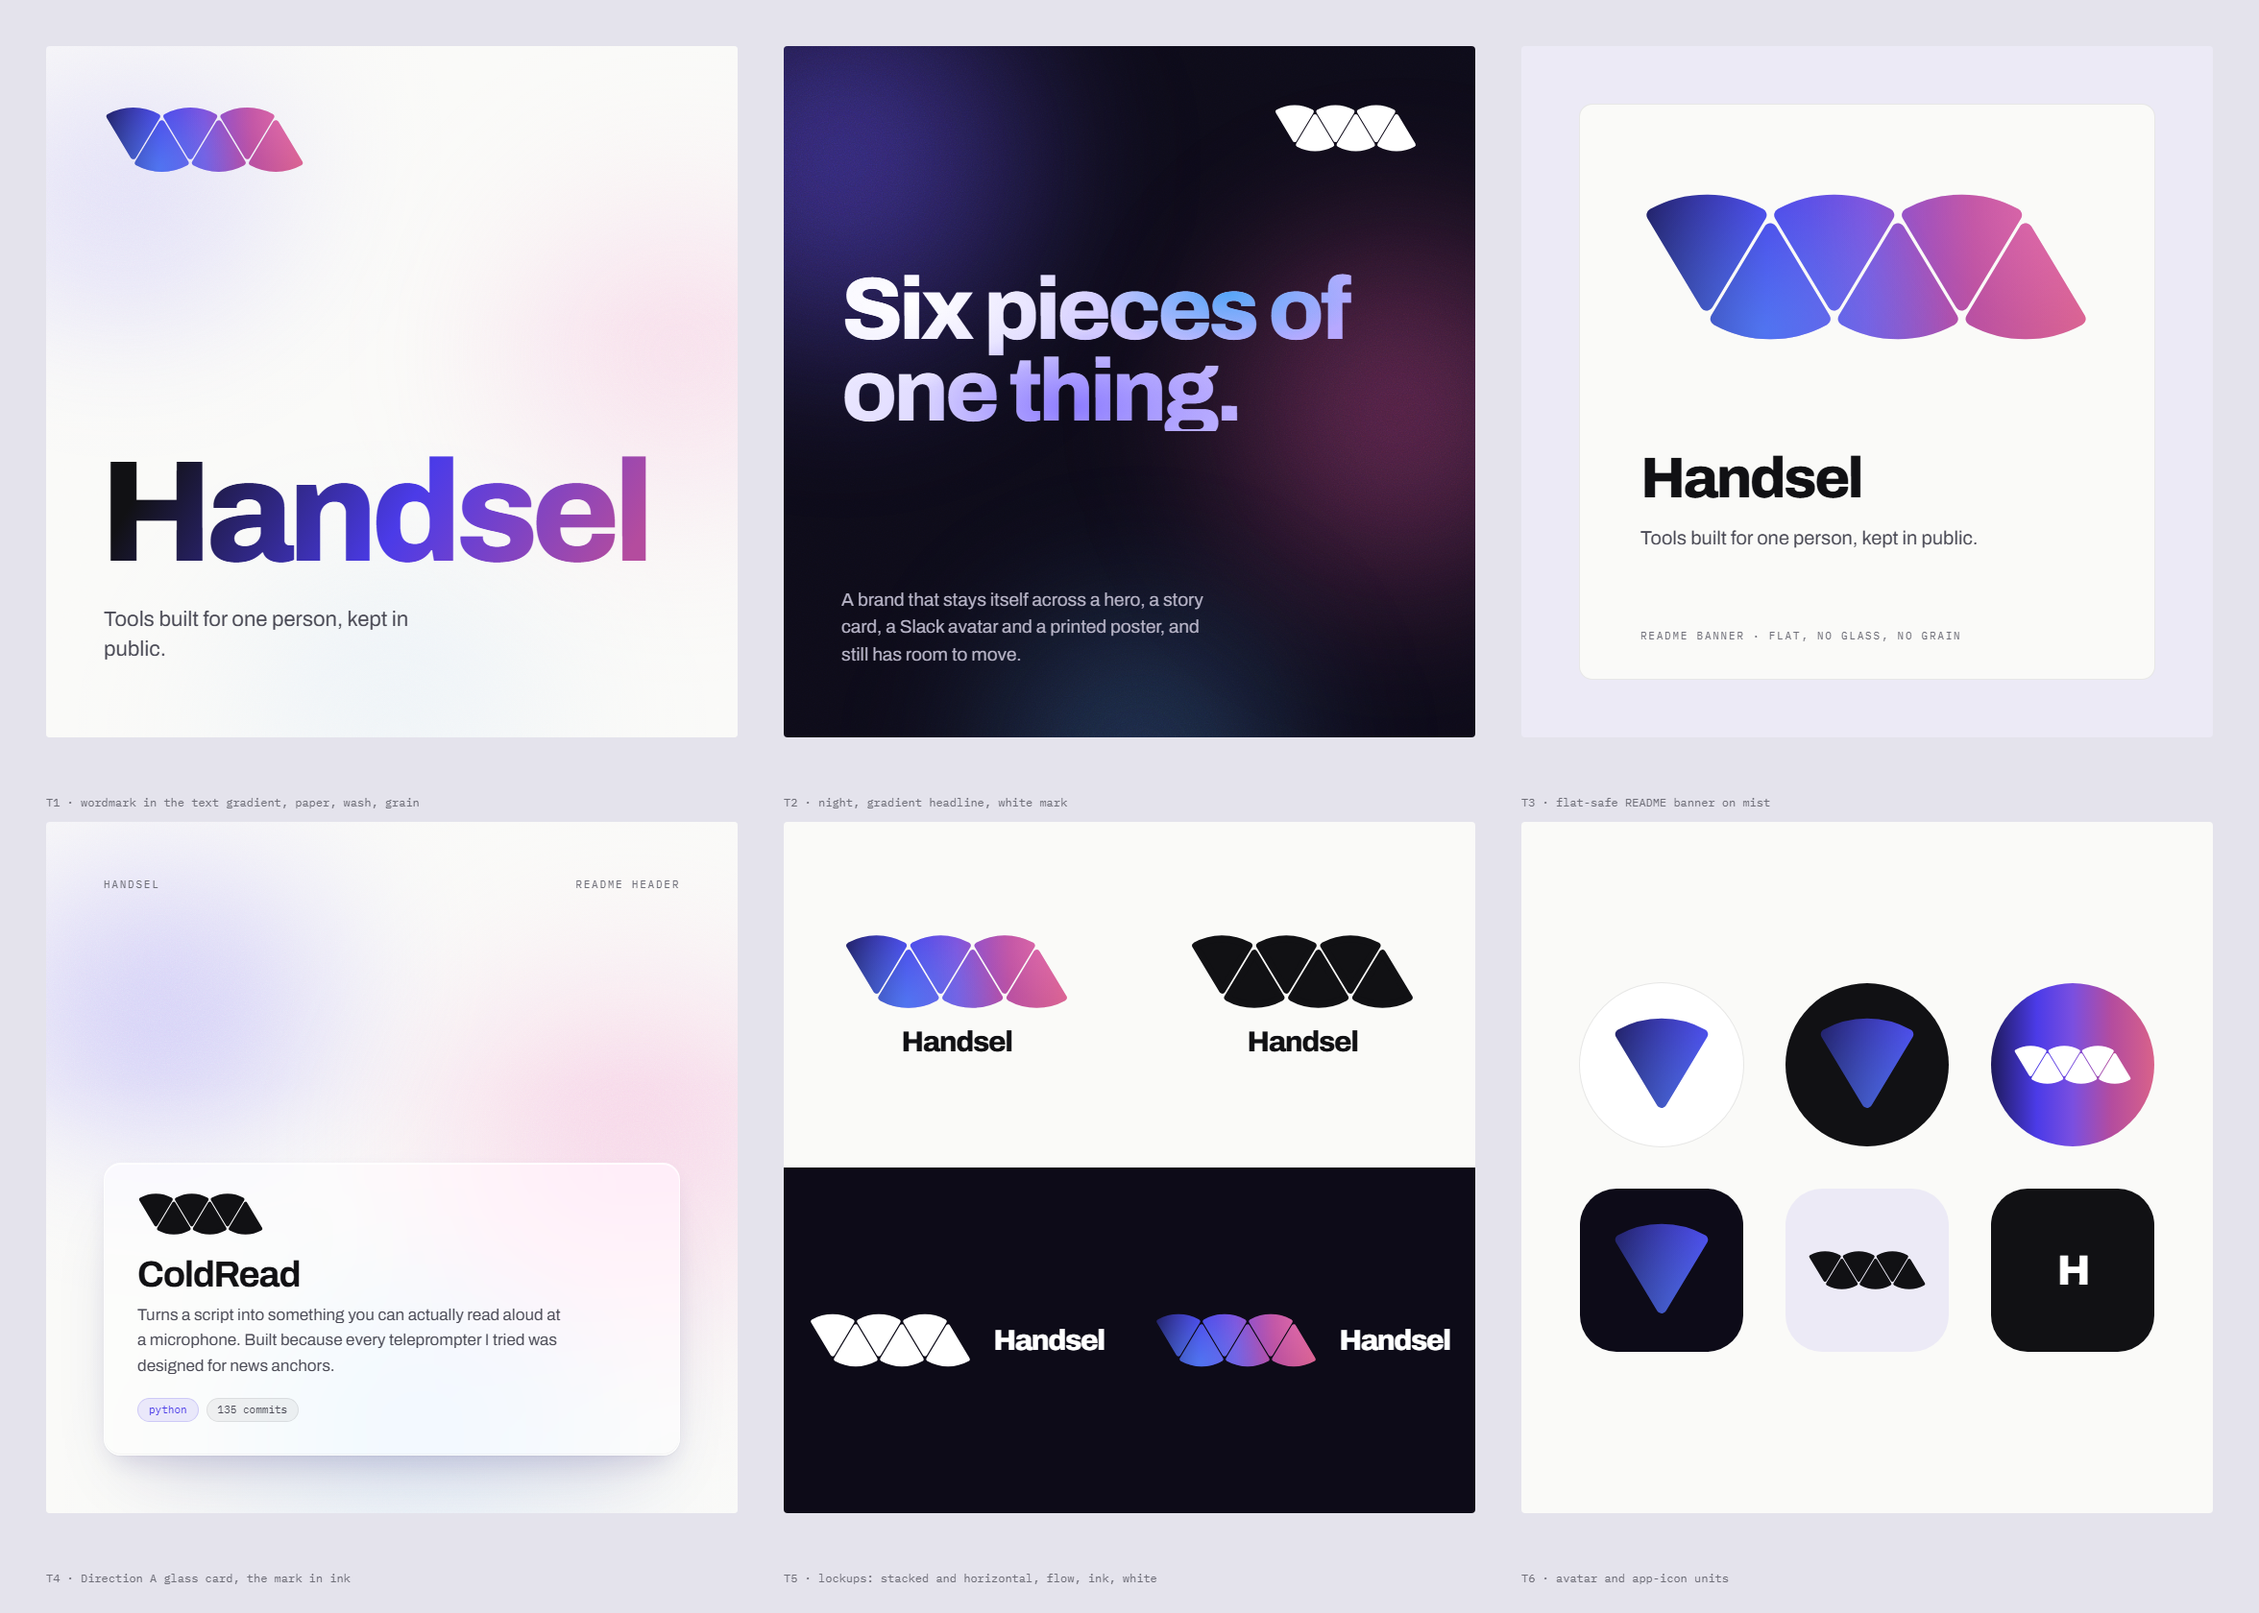
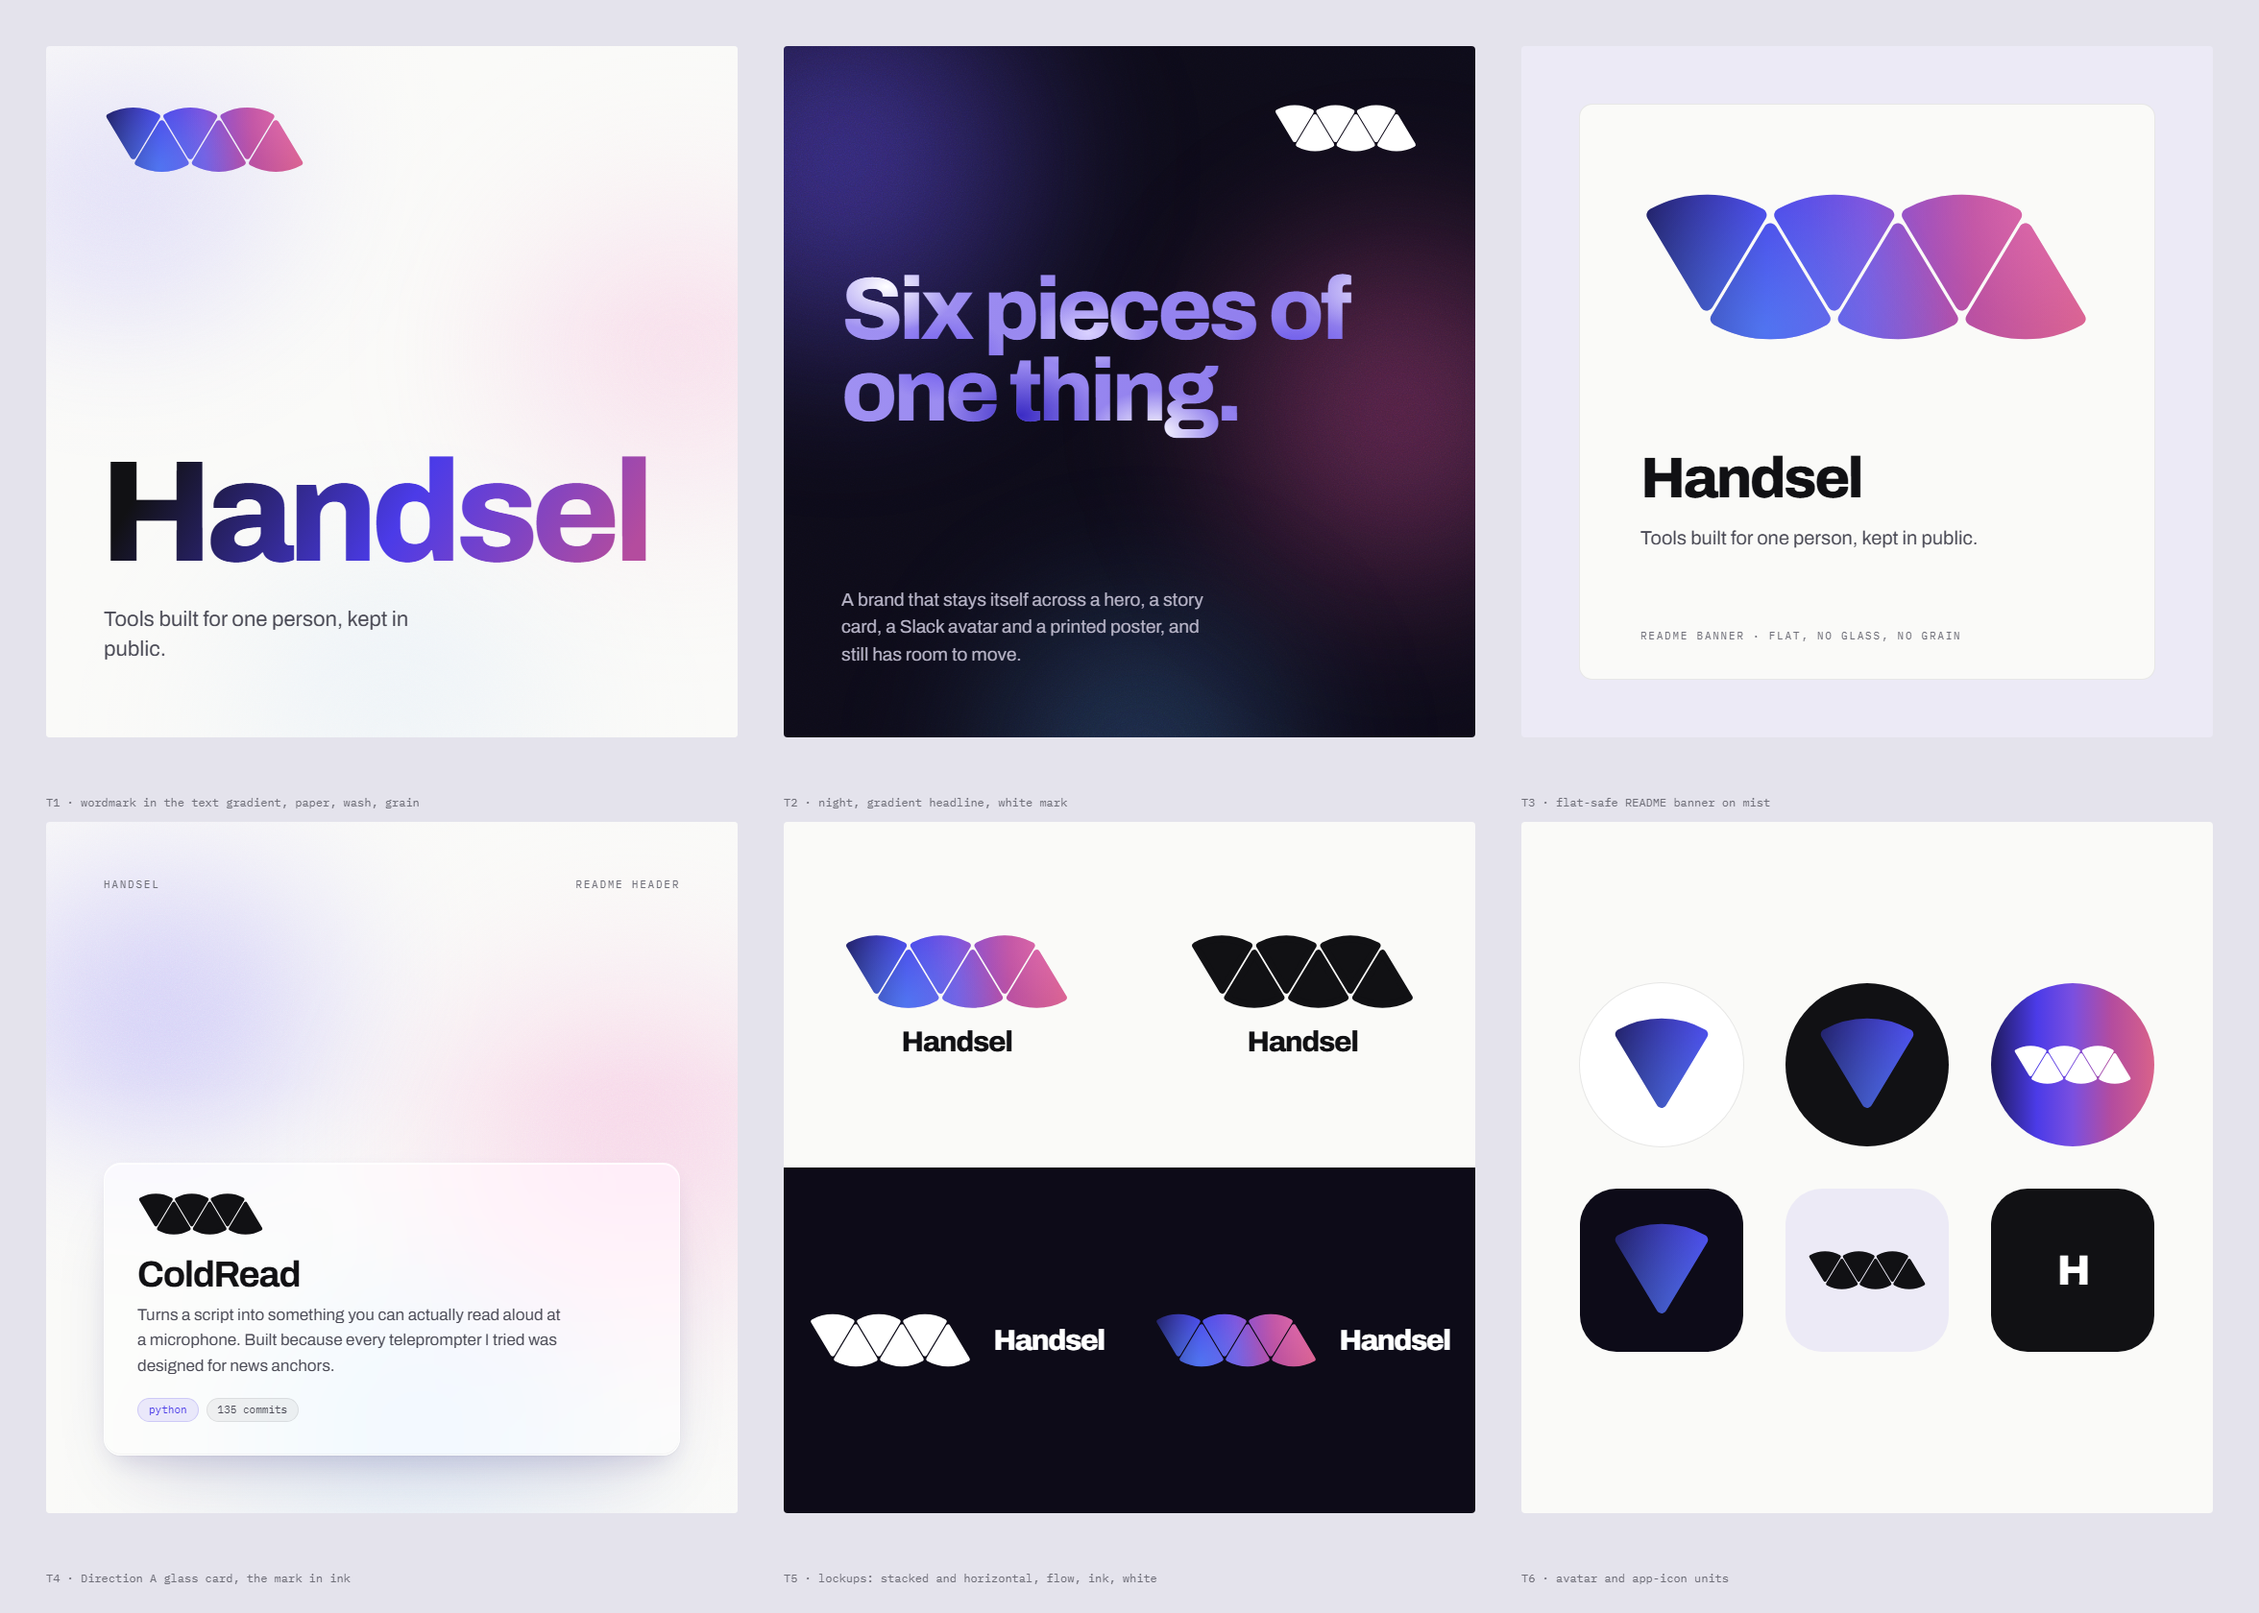
brand: T2 mesh headline, harder pools, descender kept inside the paint box

Changed region(s): [[0.3724, 0.1548, 0.5897, 0.2786]]

diff --git a/brand/fonts.css b/brand/fonts.css
@@ -19,11 +19,14 @@
   /* Mesh for display type on night: stacked radial pools over a white base, ending at
      lilac. No pink. Reads as one lit surface, not a ramp. */
   --mesh-night:
-    radial-gradient(60% 90% at 12% 20%, #FFFFFF 0%, rgba(255,255,255,0) 60%),
-    radial-gradient(45% 70% at 42% 85%, #8C7BFF 0%, rgba(140,123,255,0) 65%),
-    radial-gradient(40% 60% at 70% 15%, #56A4F8 0%, rgba(86,164,248,0) 60%),
-    radial-gradient(55% 80% at 92% 70%, #B9A6FF 0%, rgba(185,166,255,0) 65%),
-    linear-gradient(120deg, #F2F0FF 0%, #A99BFF 100%);
+    radial-gradient(22% 42% at 8% 10%, #FFFFFF 0%, rgba(255,255,255,0) 60%),
+    radial-gradient(20% 40% at 56% 92%, #FFFFFF 0%, rgba(255,255,255,0) 60%),
+    radial-gradient(24% 40% at 96% 12%, #F1EDFF 0%, rgba(241,237,255,0) 60%),
+    radial-gradient(22% 45% at 32% 82%, #3B2CC4 0%, rgba(59,44,196,0) 62%),
+    radial-gradient(24% 50% at 80% 58%, #4B3BE8 0%, rgba(75,59,232,0) 62%),
+    radial-gradient(18% 34% at 44% 36%, #D9D1FF 0%, rgba(217,209,255,0) 60%),
+    radial-gradient(20% 40% at 18% 50%, #6A55EE 0%, rgba(106,85,238,0) 60%),
+    linear-gradient(100deg, #A091F2 0%, #8B78EC 100%);
   --display: "Archivo", "Helvetica Neue", Arial, sans-serif;
   --body: "Archivo", system-ui, sans-serif;
   --mono: "IBM Plex Mono", Consolas, monospace;

diff --git a/lookdev/takes/takes.html b/lookdev/takes/takes.html
@@ -25,7 +25,8 @@
   /* T2 night headline */
   .t2 { background: var(--night); color: #fff; }
   .t2 .mark { position: absolute; right: 60px; top: 60px; width: 150px; }
-  .t2 h1 { position: absolute; left: 60px; top: 232px; margin: 0; font: 800 92px/0.92 var(--display); letter-spacing: -0.045em; max-width: 10ch;
+  /* padding-bottom keeps the descenders inside the box the gradient paints */
+  .t2 h1 { position: absolute; left: 60px; top: 232px; margin: 0; padding: 0 0.1em 0.18em 0; font: 800 92px/0.92 var(--display); letter-spacing: -0.045em; max-width: 10ch;
     background: var(--mesh-night); -webkit-background-clip: text; background-clip: text; color: transparent; }
   .t2 p { position: absolute; left: 60px; bottom: 72px; margin: 0; font: 400 19px/1.5 var(--body); color: #B9B6C9; max-width: 36ch; }
 
